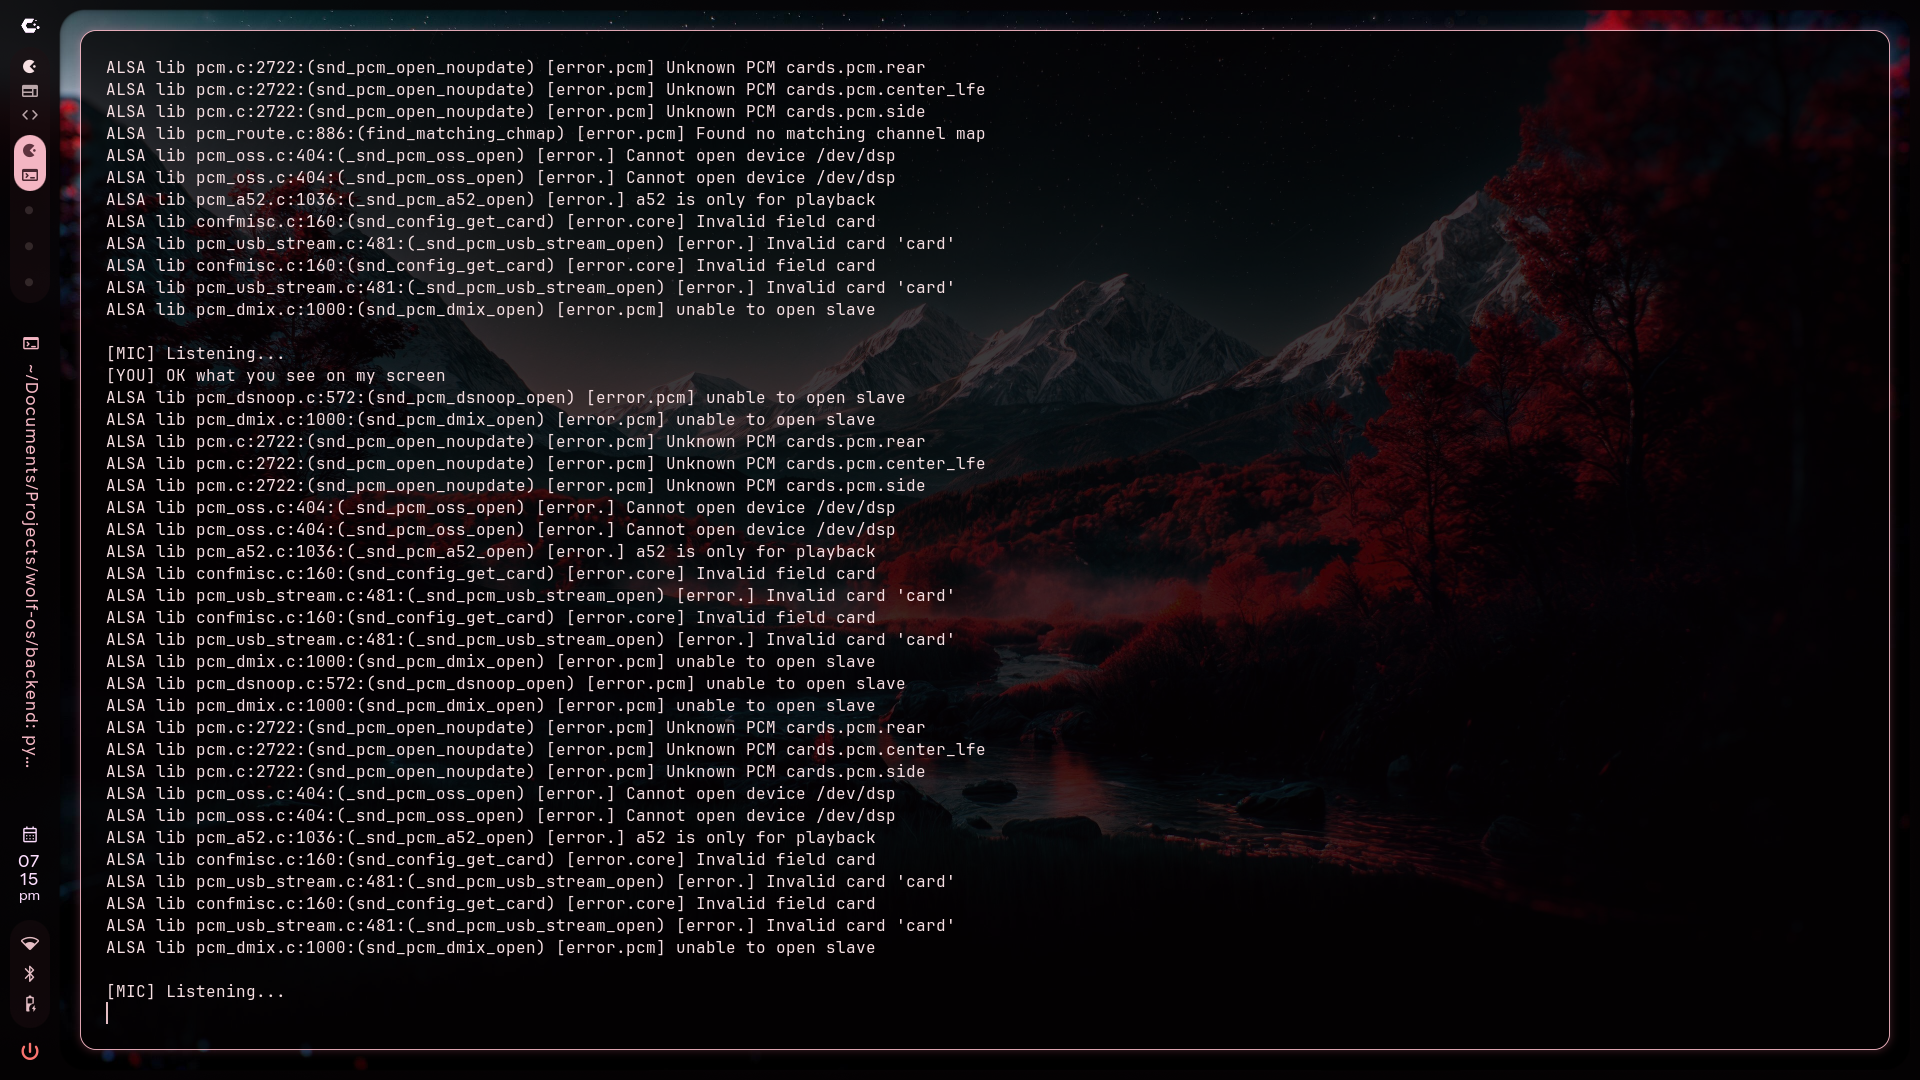
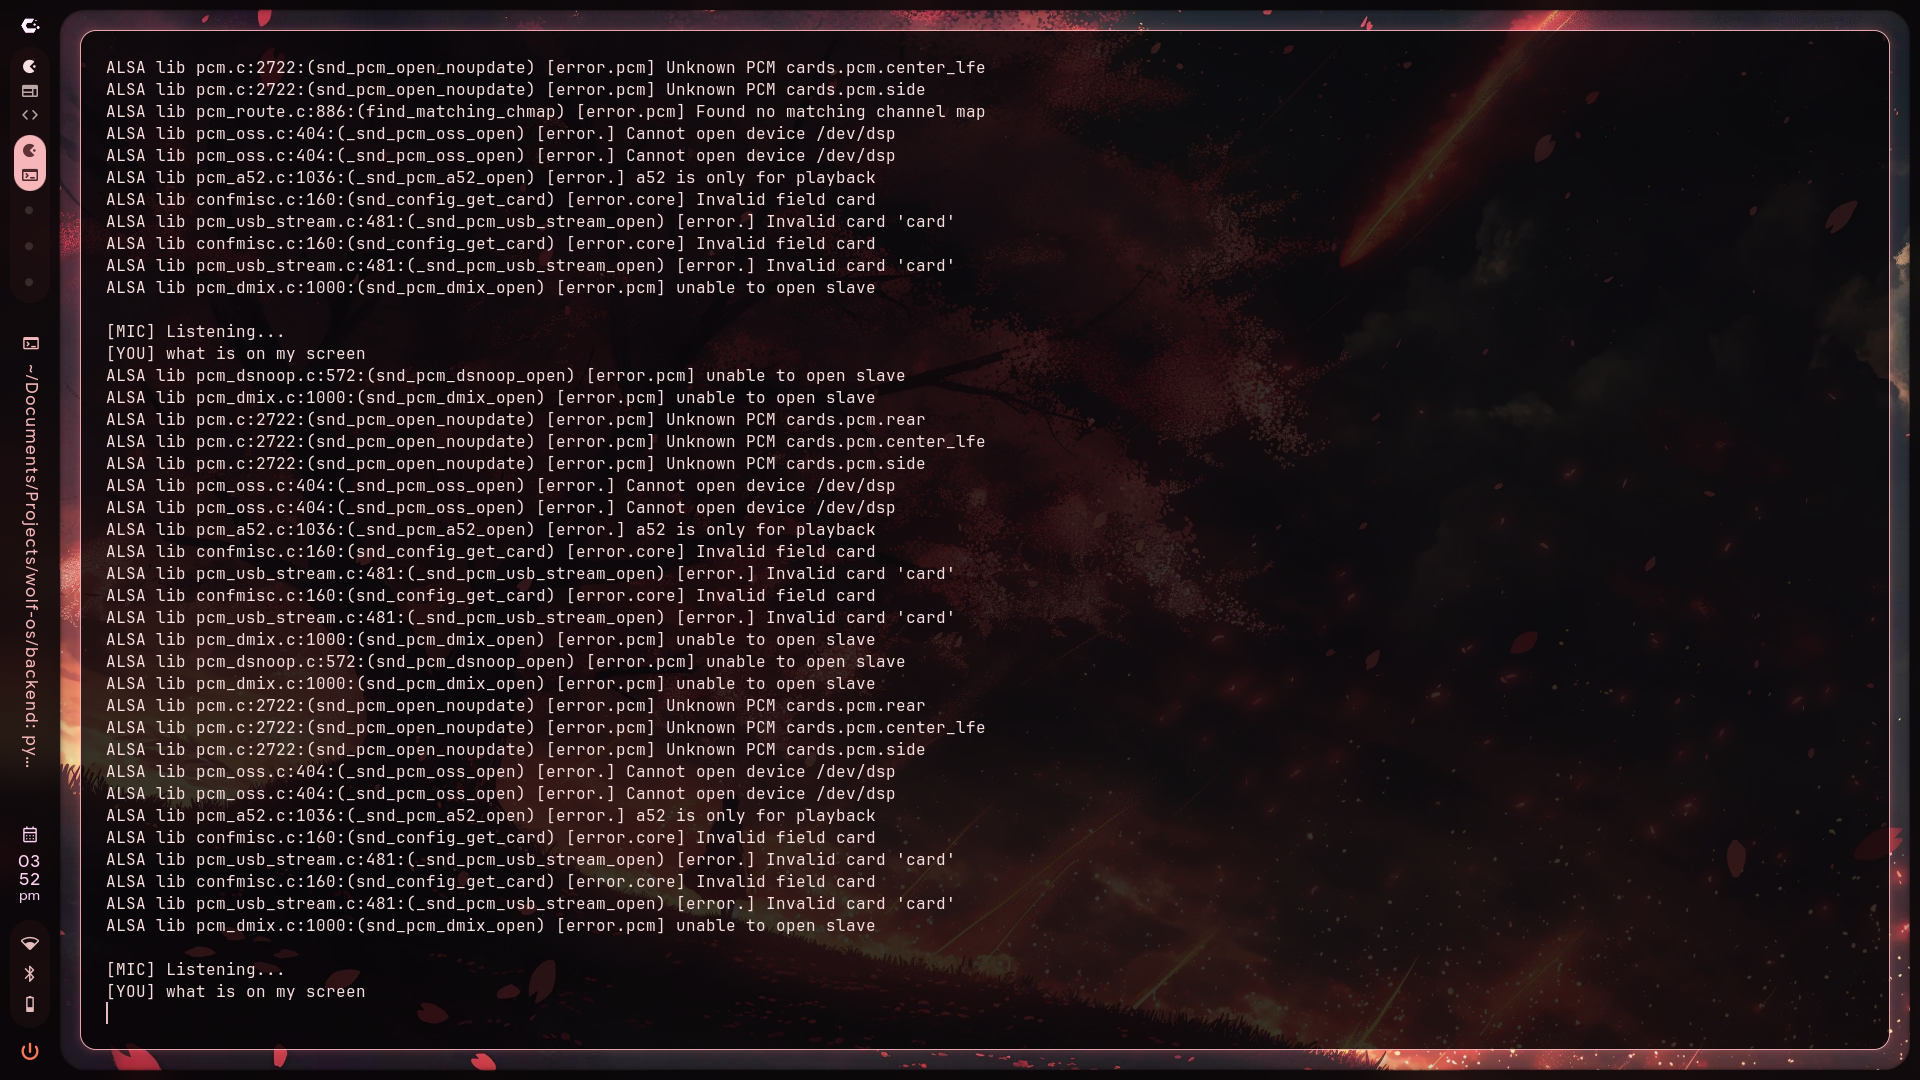
4:27pm 27/07

diff --git a/backend/automation/automation.py b/backend/automation/automation.py
@@ -1,0 +1,61 @@
+from automation.keyboard import press, type_text
+from automation.mouse import (
+    click,
+    double_click,
+    right_click,
+    scroll_down,
+    scroll_up,
+)
+
+
+class Automation:
+
+    def execute(self, command: str):
+
+        command = command.lower()
+
+        if "double click" in command:
+            double_click()
+            return "Done."
+
+        if "right click" in command:
+            right_click()
+            return "Done."
+
+        if "click" in command:
+            click()
+            return "Done."
+
+        if "scroll up" in command:
+            scroll_up()
+            return "Scrolling up."
+
+        if "scroll down" in command:
+            scroll_down()
+            return "Scrolling down."
+
+        if command.startswith("type "):
+
+            text = command.replace("type ", "")
+
+            type_text(text)
+
+            return f"Typed '{text}'."
+
+        if "press enter" in command:
+            press("enter")
+            return "Pressed Enter."
+
+        if "press escape" in command:
+            press("esc")
+            return "Pressed Escape."
+
+        if "press tab" in command:
+            press("tab")
+            return "Pressed Tab."
+
+        if "press space" in command:
+            press("space")
+            return "Pressed Space."
+
+        return None

diff --git a/backend/automation/keyboard.py b/backend/automation/keyboard.py
@@ -1,0 +1,79 @@
+import subprocess
+
+
+def type_text(text: str):
+
+    subprocess.run(
+        [
+            "ydotool",
+            "type",
+            text
+        ]
+    )
+
+
+def press(key: str):
+
+    keys = {
+        "enter": "28",
+        "esc": "1",
+        "space": "57",
+        "tab": "15",
+        "backspace": "14",
+    }
+
+    code = keys.get(key.lower())
+
+    if code:
+
+        subprocess.run(
+            [
+                "ydotool",
+                "key",
+                f"{code}:1",
+                f"{code}:0"
+            ]
+        )
+
+
+def hotkey(*keys):
+
+    keymap = {
+        "ctrl": "29",
+        "shift": "42",
+        "alt": "56",
+        "super": "125",
+        "c": "46",
+        "v": "47",
+        "x": "45",
+        "a": "30",
+        "s": "31",
+        "z": "44",
+        "y": "21",
+    }
+
+    sequence = []
+
+    for key in keys:
+
+        code = keymap.get(key.lower())
+
+        if code:
+
+            sequence.append(f"{code}:1")
+
+    for key in reversed(keys):
+
+        code = keymap.get(key.lower())
+
+        if code:
+
+            sequence.append(f"{code}:0")
+
+    subprocess.run(
+        [
+            "ydotool",
+            "key",
+            *sequence
+        ]
+    )

diff --git a/backend/automation/mouse.py b/backend/automation/mouse.py
@@ -1,0 +1,64 @@
+import subprocess
+
+
+def click():
+
+    subprocess.run(
+        [
+            "ydotool",
+            "click",
+            "0xC0"
+        ]
+    )
+
+
+def double_click():
+
+    click()
+    click()
+
+
+def right_click():
+
+    subprocess.run(
+        [
+            "ydotool",
+            "click",
+            "0xC1"
+        ]
+    )
+
+
+def scroll_up():
+
+    subprocess.run(
+        [
+            "ydotool",
+            "click",
+            "0x900"
+        ]
+    )
+
+
+def scroll_down():
+
+    subprocess.run(
+        [
+            "ydotool",
+            "click",
+            "0x901"
+        ]
+    )
+
+
+def move(x: int, y: int):
+
+    subprocess.run(
+        [
+            "ydotool",
+            "mousemove",
+            "--absolute",
+            str(x),
+            str(y)
+        ]
+    )

diff --git a/backend/automation/window.py b/backend/automation/window.py
@@ -1,0 +1,54 @@
+import subprocess
+
+
+def active_window():
+
+    result = subprocess.run(
+        [
+            "hyprctl",
+            "activewindow"
+        ],
+        capture_output=True,
+        text=True
+    )
+
+    return result.stdout
+
+
+def close_window():
+
+    subprocess.run(
+        [
+            "hyprctl",
+            "dispatch",
+            "killactive"
+        ]
+    )
+
+    return "Closed active window."
+
+
+def fullscreen():
+
+    subprocess.run(
+        [
+            "hyprctl",
+            "dispatch",
+            "fullscreen",
+            "1"
+        ]
+    )
+
+    return "Fullscreen enabled."
+
+
+def focus(direction):
+
+    subprocess.run(
+        [
+            "hyprctl",
+            "dispatch",
+            "movefocus",
+            direction
+        ]
+    )

diff --git a/backend/core/brain.py b/backend/core/brain.py
@@ -172,6 +172,23 @@ class Brain:
         ):
             return {"intent": "VISION", "command": command}
 
+
+        # ----------------------------
+        # AUTOMATION
+        # ----------------------------
+        if any(word in command for word in [
+            "click",
+            "double click",
+            "right click",
+            "scroll",
+            "type",
+            "press enter",
+        ]):
+            return {
+                "intent": "AUTOMATION",
+                "command": command
+            }
+        
         # ----------------------------
         # UNKNOWN
         # ----------------------------

diff --git a/backend/core/skill_manager.py b/backend/core/skill_manager.py
@@ -1,7 +1,10 @@
+from automation.automation import Automation
+
 from core.ai import AI
 from core.profile import Profile
 from core.skills import apps, chat, system, vision
 
+automation = Automation()
 ai = AI()
 profile = Profile()
 
@@ -71,6 +74,13 @@ class SkillManager:
 
         elif intent == "VISION":
             return vision.execute(result["command"])
+
+        # --------------------------
+        # AUTOMATION
+        # --------------------------
+
+        elif intent == "AUTOMATION":
+            return automation.execute(result["command"])
 
         # -------------------------
         # Default

diff --git a/backend/automation/clipboard.py b/backend/automation/clipboard.py
@@ -1,0 +1,36 @@
+import subprocess
+
+
+def copy(text: str):
+
+    subprocess.run(
+        [
+            "wl-copy"
+        ],
+        input=text,
+        text=True
+    )
+
+
+def paste():
+
+    result = subprocess.run(  # noqa: PLW1510
+        [
+            "wl-paste"
+        ],
+        capture_output=True,
+        text=True
+    )
+
+    return result.stdout
+
+
+def clear():
+
+    subprocess.run(
+        [
+            "wl-copy"
+        ],
+        input="",
+        text=True
+    )
